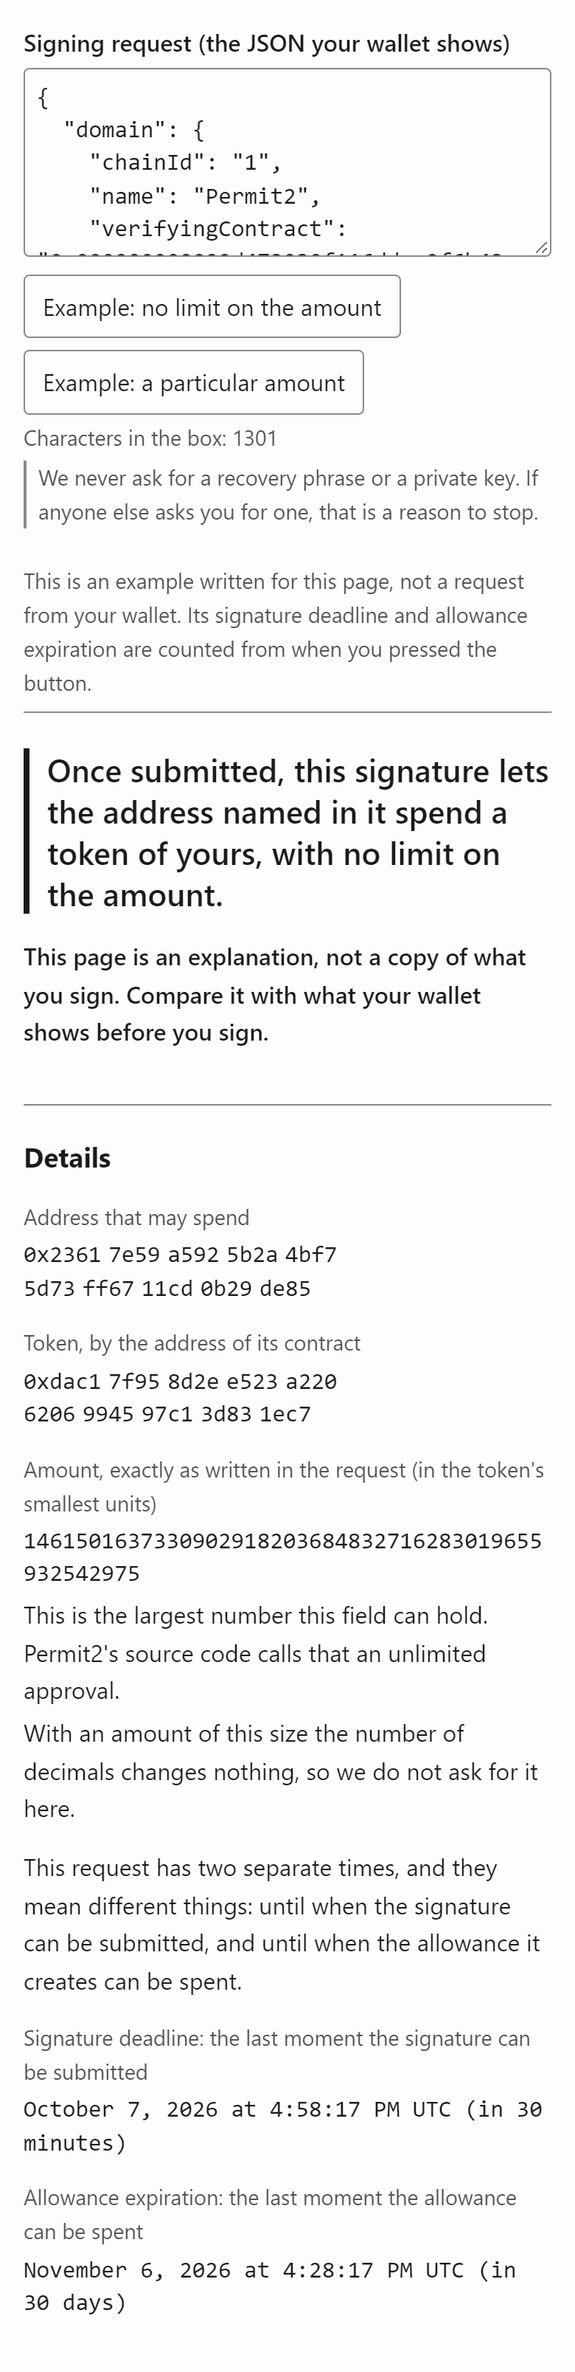
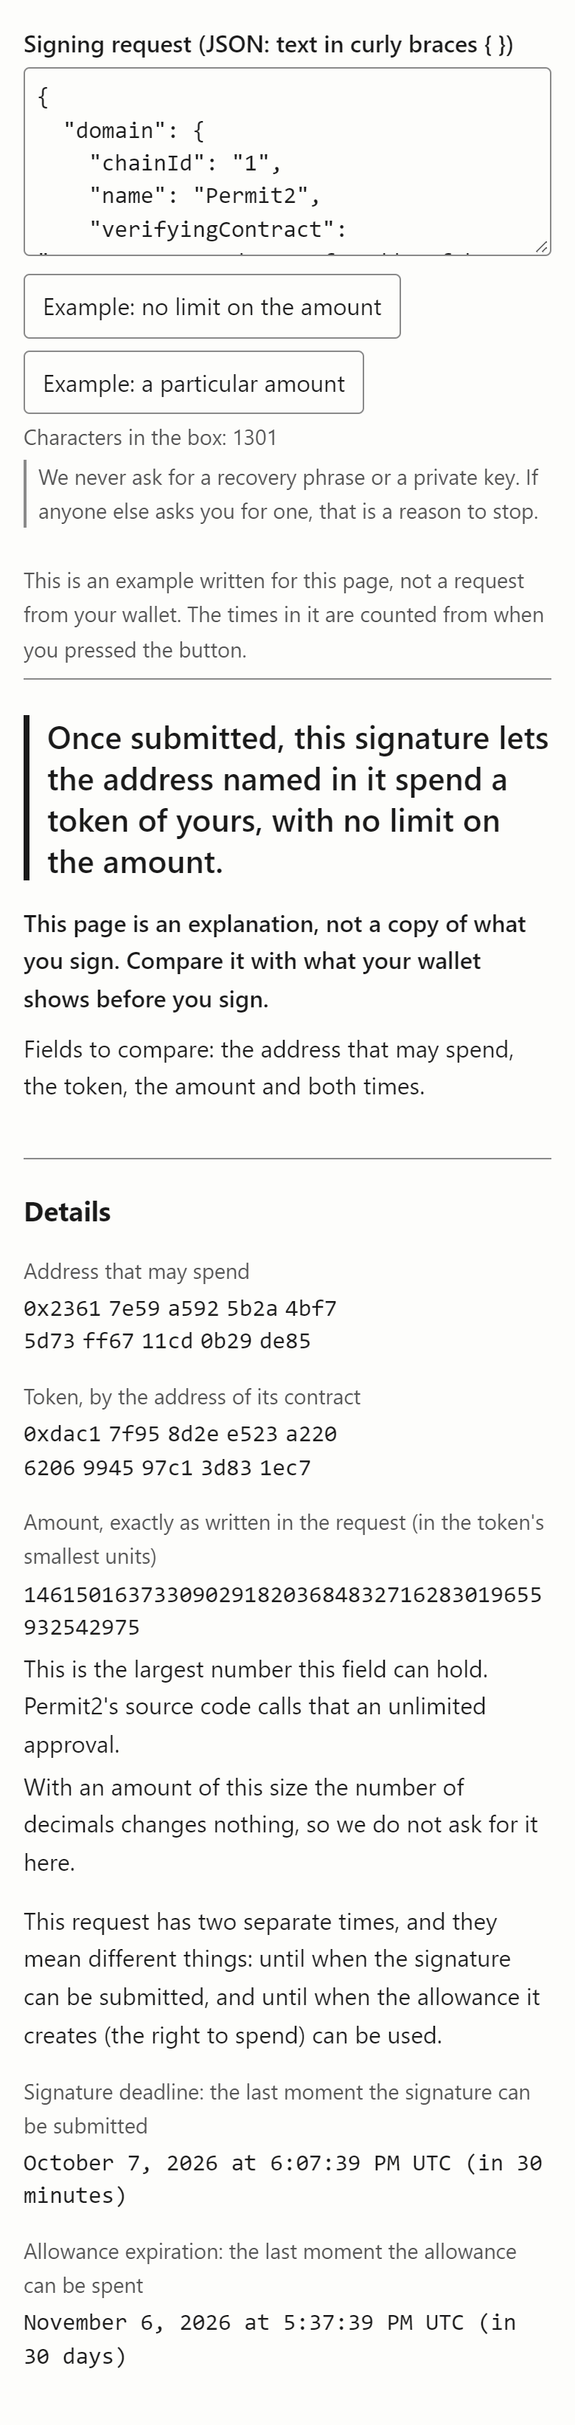
Make the example button show the answer, name the fields to compare, and explain a few words
After an Example button the screen starts at the note that says it is an
example, so the main sentence is in view on a small phone. The field for
the token's decimals now stands above the two guesses. Under the sentence
that sends the person to the wallet, the fields of this kind of request to
look at there are named. The lead is shorter, JSON is described by what it
looks like, the example note says only that it is an example, and
allowance and chain ID are explained in brackets at first mention. The
Russian line that began with the word for network now has a verb.

diff --git a/src/texts/ru.js b/src/texts/ru.js
@@ -15,18 +15,20 @@ export default {
       'Эта страница — объяснение, а не копия того, что вы подписываете. Сравните её с тем, что показывает кошелёк, до подписи.',
     notCheckedTitle: 'Что мы не проверяли',
     title: 'Перед тем как подписать',
-    lead: 'Сайт может попросить у вашего кошелька подпись вместо транзакции. Кошелёк может показать такой запрос блоком данных: адреса шестнадцатеричными числами, суммы — в мельчайших долях токена. Эта страница описывает, что сказано в запросе, — насколько мы можем его прочитать. Подписывать ли его, она не говорит.',
+    lead:
+      'Сайт может попросить у вашего кошелька подпись вместо транзакции. Эта страница описывает, что сказано в таком запросе, — насколько мы можем его прочитать. Подписывать ли его, она не говорит.',
     when: 'Пригодится, когда кошелёк показывает такой запрос и вы хотите прочитать, что в нём сказано, прежде чем подписывать.',
     how: 'Как достать запрос: если кошелёк позволяет скопировать его текстом, скопируйте целиком и вставьте ниже. Если не позволяет, вставлять здесь нечего.',
     replaceAsk: 'В поле уже есть текст. Заменить его примером?',
     exampleLargest: 'Пример: сумма без ограничения',
     exampleParticular: 'Пример: конкретная сумма',
     exampleNote:
-      'Это пример, написанный для этой страницы, а не запрос из вашего кошелька. Срок подписи и срок разрешения в нём отсчитаны от момента, когда вы нажали кнопку.',
+      'Это пример, написанный для этой страницы, а не запрос из вашего кошелька. Сроки в нём отсчитаны от момента, когда вы нажали кнопку.',
     gift: 'Эту страницу сделал один человек. Она бесплатная и без рекламы. Если она пригодилась, можно отправить автору добровольный подарок в USDT в сети BNB Smart Chain (BEP-20).',
     giftAddress: 'Адрес автора для подарков: USDT, BNB Smart Chain (BEP-20)',
     giftApart: 'Это собственный адрес автора для подарков. Он не взят ни из какого вставленного запроса.',
-    inputLabel: 'Запрос на подпись (JSON, который показывает кошелёк)',
+    inputLabel:
+      'Запрос на подпись (JSON: текст в фигурных скобках { })',
     decimalsLabel: 'Число знаков после запятой у токена, если вы его знаете (необязательно)',
     detailsTitle: 'Подробности',
     mechanicsTitle: 'Как устроен этот запрос',
@@ -63,6 +65,17 @@ export default {
     message: 'само содержимое запроса',
   },
 
+  // Under the sentence that sends the person to the wallet: which fields of
+  // this kind of request to look at there. Mirrors en.js.
+  compare: {
+    'erc2612-permit': 'Поля для сравнения: адрес, который сможет тратить; адрес, чьи токены можно будет тратить; сумму; срок подписи.',
+    'dai-permit': 'Поля для сравнения: адрес, который сможет тратить; адрес, чьи токены можно будет тратить; ответ «да» или «нет»; срок подписи.',
+    'permit2-permit-single': 'Поля для сравнения: адрес, который сможет тратить, токен, сумму и оба срока.',
+    'permit2-permit-batch': 'Поля для сравнения: адрес, который сможет тратить, каждый токен с его суммой и сроком разрешения, и срок подписи.',
+    'permit2-permit-transfer-from': 'Поля для сравнения: адрес, который сможет сделать перевод, токен, сумму и срок подписи.',
+    'seaport-order': 'Поля для сравнения: позиции, которые могут быть переведены; позиции, которые должны быть получены, и адреса их получателей; начало и конец действия ордера.',
+  },
+
   notChecked: {
     'whose-addresses': 'Кто стоит за адресами в этом запросе. Мы ничего не выясняем по этим адресам.',
     'token-genuine': 'Тот ли токен находится по этому адресу, какой вы ожидаете.',
@@ -74,7 +87,8 @@ export default {
     'contract-not-established': 'Для какого контракта эта подпись. Из запроса мы установить это не смогли.',
     'published-lists-incomplete':
       'Наш перечень того, что опубликовали авторы протоколов, неполон. Если адреса в нём нет, это ничего не говорит о контракте.',
-    'network-not-compared': 'Сеть. Мы сравнили адрес с тем, который публикуют авторы протокола. Что в сети с номером {chainId} по этому адресу действительно их контракт, мы не проверяли: совпадение адреса этого не показывает.',
+    'network-not-compared':
+      'Тот ли это контракт самого протокола в сети с номером {chainId}. Мы сравнили адрес с тем, который публикуют авторы протокола. Совпадение адреса само по себе не показывает, что контракт в этой сети — контракт самих авторов протокола.',
     'prior-approval-of-permit2':
       'Давали ли вы раньше Permit2 одобрение тратить этот токен. В исходном коде Permit2 сказано, что его разрешения требуют такого одобрения; давали ли вы его, из запроса не видно.',
     'explained-by-single-permit':
@@ -147,8 +161,8 @@ export default {
     unexplained: 'Для типа этого запроса у нас нет объяснения.',
     unexplainedMore: 'Ниже — то, что содержится в запросе. Что означают его поля, мы не объясняем.',
     noContract: 'В домене этого запроса контракт не указан, поэтому из запроса не видно, для какого он контракта.',
-    network: 'Номер сети: {chainId}.',
-    networkNamed: 'Номер сети: {chainId} — {name}, как она названа в EIP-155.',
+    network: 'Номер сети (chain ID): {chainId}.',
+    networkNamed: 'Номер сети (chain ID): {chainId} — {name}, как она названа в EIP-155.',
   },
 
   erc2612: {
@@ -177,7 +191,7 @@ export default {
     batchToken: 'Токен {n} — адрес его контракта',
     owner: 'В запросе не сказано, чьи это токены. Это токены того, кто подписывает.',
     twoTimes:
-      'В этом запросе два отдельных срока, и означают они разное: до какого момента подпись можно предъявить и до какого момента можно тратить по разрешению, которое она создаёт.',
+      'В этом запросе два отдельных срока, и означают они разное: до какого момента подпись можно предъявить и до какого момента можно тратить по разрешению (праву тратить), которое она создаёт.',
     expiration: 'Срок разрешения — последний момент, когда токены можно тратить по этому разрешению',
     expirationPassed: 'По часам вашего устройства срок разрешения в этом запросе уже прошёл.',
     expirationZero:

diff --git a/src/texts/en.js b/src/texts/en.js
@@ -21,19 +21,22 @@ export default {
       'This page is an explanation, not a copy of what you sign. Compare it with what your wallet shows before you sign.',
     notCheckedTitle: 'What we have not checked',
     title: 'Before you sign',
-    lead: 'A website can ask your wallet for a signature instead of a transaction. A wallet may show that request as a block of data, with addresses in hexadecimal and amounts in the token\'s smallest units. This page describes what the request says, as far as we can read it. It does not tell you whether to sign it.',
+    lead:
+      'A website can ask your wallet for a signature instead of a transaction. This page describes what such a request says, as far as we can read it. It does not tell you whether to sign it.',
     when: 'Use it when your wallet shows you such a request and you want to read what it says before you sign.',
     how: 'To get the request: if your wallet lets you copy it as text, copy all of it and paste it below. If it does not, there is nothing to paste.',
     replaceAsk: 'The box already has text. Replace it with the example?',
     exampleLargest: 'Example: no limit on the amount',
     exampleParticular: 'Example: a particular amount',
     exampleNote:
-      "This is an example written for this page, not a request from your wallet. Its signature deadline and allowance expiration are counted from when you pressed the button.",
+      'This is an example written for this page, not a request from your wallet. The times in it are counted from when you pressed the button.',
     gift: 'This page was made by one person. It is free and has no ads. If it was useful, you may send the author a voluntary gift in USDT on BNB Smart Chain (BEP-20).',
     giftAddress: "Author's address for gifts: USDT, BNB Smart Chain (BEP-20)",
     giftApart: "This is the author's own address for gifts. It is not taken from any request you paste.",
-    inputLabel: 'Signing request (the JSON your wallet shows)',
-    decimalsLabel: 'Token decimals, if you know them (optional)',
+    inputLabel:
+      'Signing request (JSON: text in curly braces { })',
+    decimalsLabel:
+      'Token decimals (digits after the decimal point), if you know them (optional)',
     detailsTitle: 'Details',
     mechanicsTitle: 'How this request works',
     unreadNote: 'We could not read this value. It is shown as written.',
@@ -67,6 +70,18 @@ export default {
     primaryType: 'the name of the main kind of data',
     domain: 'the description of where the request is addressed',
     message: 'the contents of the request itself',
+  },
+
+  // Under the sentence that sends the person to the wallet: which fields of
+  // this kind of request to look at there. Only for the kinds we explain. The
+  // names are those of the labels in the answer.
+  compare: {
+    'erc2612-permit': 'Fields to compare: the address that may spend, the address whose tokens may be spent, the amount and the signature deadline.',
+    'dai-permit': 'Fields to compare: the address that may spend, the address whose tokens may be spent, the yes-or-no answer and the signature deadline.',
+    'permit2-permit-single': 'Fields to compare: the address that may spend, the token, the amount and both times.',
+    'permit2-permit-batch': 'Fields to compare: the address that may spend, each token with its amount and expiration, and the signature deadline.',
+    'permit2-permit-transfer-from': 'Fields to compare: the address that may make the transfer, the token, the amount and the signature deadline.',
+    'seaport-order': 'Fields to compare: the items that may be transferred, the items that must be received with the addresses that receive them, and the start and end times.',
   },
 
   notChecked: {
@@ -154,8 +169,10 @@ export default {
     unexplained: 'We have no explanation for the type of this request.',
     unexplainedMore: 'Below is what the request contains. We do not explain what its fields mean.',
     noContract: 'The domain of this request names no contract, so the request does not show which contract it is for.',
-    network: 'Chain ID {chainId}.',
-    networkNamed: 'Chain ID {chainId}: {name}, as named in EIP-155.',
+    network:
+      'Chain ID {chainId}, the number that identifies the network.',
+    networkNamed:
+      'Chain ID {chainId}, the number that identifies the network: {name}, as named in EIP-155.',
   },
 
   erc2612: {
@@ -184,7 +201,7 @@ export default {
     batchToken: 'Token {n}, by the address of its contract',
     owner: 'The request does not name whose tokens these are. They are the tokens of whoever signs.',
     twoTimes:
-      'This request has two separate times, and they mean different things: until when the signature can be submitted, and until when the allowance it creates can be spent.',
+      'This request has two separate times, and they mean different things: until when the signature can be submitted, and until when the allowance it creates (the right to spend) can be used.',
     expiration: 'Allowance expiration: the last moment the allowance can be spent',
     expirationPassed: "By your device's clock, the expiration of the allowance in this request has already passed.",
     expirationZero:

diff --git a/src/page.js b/src/page.js
@@ -111,8 +111,11 @@ function showAnswer({ typed = false, scroll = false } = {}) {
     byId('pasted').textContent = '';
     emptiedForSecretWords = true;
   }
-  // Only on a paste into the box, not on a change of language.
-  if (scroll) answer.firstElementChild?.scrollIntoView({ block: 'nearest' });
+  // Only on a paste into the box or a press of an Example button, not on a
+  // change of language. After an example the screen starts at the line that
+  // says it is an example: the sentence under it is what the button is for,
+  // and a screen that kept the box on top left it below the fold.
+  if (scroll) answer.firstElementChild?.scrollIntoView({ block: showingExample ? 'start' : 'nearest' });
 }
 
 // What explain.js needs besides the text. A value that cannot be a number of
@@ -155,7 +158,8 @@ function showConversions() {
   if (shown.length !== fresh.length) return showAnswer();
   shown.forEach((block, index) => {
     for (const note of block.querySelectorAll(':scope > .note')) note.remove();
-    const above = block.querySelector(':scope > .value') ?? block.querySelector(':scope > .label');
+    const above =
+      block.querySelector(':scope > #decimals-field') ?? block.querySelector(':scope > .value') ?? block.querySelector(':scope > .label');
     above.after(...fresh[index].querySelectorAll(':scope > .note'));
   });
 }
@@ -171,7 +175,7 @@ function refusal({ refused }) {
 //
 // `placeField` is false when the answer is drawn only to take the lines
 // under the amounts from it: the decimals field then stays where it is.
-function explanation({ main, notable, details, mechanics, notChecked, domain, message }, { page }, placeField) {
+function explanation({ main, notable, compare, details, mechanics, notChecked, domain, message }, { page }, placeField) {
   const entry = (item) => drawEntry(item, placeField);
   const list = element('ul');
   list.append(...notChecked.map((line) => element('li', line)));
@@ -179,6 +183,7 @@ function explanation({ main, notable, details, mechanics, notChecked, domain, me
     element('p', main, 'main'),
     ...notable.map(framed),
     element('p', page.wallet, 'wallet'),
+    ...(compare ? [element('p', compare, 'compare')] : []),
     element('h2', page.detailsTitle),
     ...details.map(entry),
     ...(mechanics.length > 0 ? [element('h2', page.mechanicsTitle), ...mechanics.map(entry)] : []),
@@ -226,13 +231,15 @@ function drawEntry(item, placeField) {
   const block = element('div', undefined, 'detail');
   block.append(element('p', item.label, 'label'));
   if (item.value !== undefined) block.append(valueNode('p', item.value, 'value'));
-  block.append(...(item.notes ?? []).map((note) => element('p', note, 'note')));
   // The field for the token's decimals goes under the first amount that is
-  // converted by them: that is where the page says it does not know them.
+  // converted by them, and above the lines that say what the amount would be
+  // without them: a person should see first that the number can be entered,
+  // and only then the guesses for when it is not known.
   if (placeField && item.decimals && decimalsField.hidden) {
     decimalsField.hidden = false;
     block.append(decimalsField);
   }
+  block.append(...(item.notes ?? []).map((note) => element('p', note, 'note')));
   if (item.sub?.length > 0) {
     const sub = element('div', undefined, 'sub');
     sub.append(...item.sub.map((child) => drawEntry(child, placeField)));

diff --git a/src/explain.js b/src/explain.js
@@ -11,6 +11,9 @@
 //               deadline that has already passed, an amount that is the
 //               largest its field holds. Each is { text, note }: the fact,
 //               and what the protocol's own source says follows from it;
+//   compare     which fields of this kind of request to look at in the wallet,
+//               shown under the sentence that sends the person there; absent
+//               for a request we do not explain;
 //   details     who, which token, how much, until when;
 //   mechanics   how the request works: its domain, and what a matching
 //               domain does and does not tell;
@@ -42,6 +45,7 @@ export function respond(pasted, texts, { now, decimals, locale, timeZone }) {
   const said = everyEntry(answer.details);
   return {
     ...answer,
+    compare: known?.roles ? texts.compare[known.kind] : undefined,
     notChecked: notChecked(parsed, known)
       .filter((code) => SAID_ONLY_WITH[code]?.(said) ?? true)
       .map((code) => fill(texts.notChecked[code], blanksFor(code, parsed))),

diff --git a/test/explain.test.js b/test/explain.test.js
@@ -388,3 +388,11 @@ test('refusals say what was seen', () => {
   const renamed = mail.replace('"primaryType":"Mail"', '"primaryType":"Letter"');
   assert.match(respond(renamed, en, options('en')).refused[0], /names "Letter" as its primary type/);
 });
+
+test('what to compare in the wallet is named for the kinds we explain, and for them only', () => {
+  for (const texts of [en, ru]) {
+    for (const kind of Object.keys(texts.form)) assert.equal(typeof texts.compare[kind], 'string', kind);
+    assert.equal(respond(permitSingle, texts, options('en')).compare, texts.compare['permit2-permit-single']);
+    assert.equal(respond(mail, texts, options('en')).compare, undefined);
+  }
+});

diff --git a/style.css b/style.css
@@ -207,6 +207,12 @@ h3 {
   font-weight: 600;
 }
 
+/* Which fields to look at there: plain weight, so that the one request above
+   it stays the heaviest line. */
+.compare {
+  margin: -0.25rem 0 0.75rem;
+}
+
 /* A value from the request on a line of its own: a quiet label saying what
    it is, then the value in type where 0 and O, 1 and l differ. */
 .detail {
